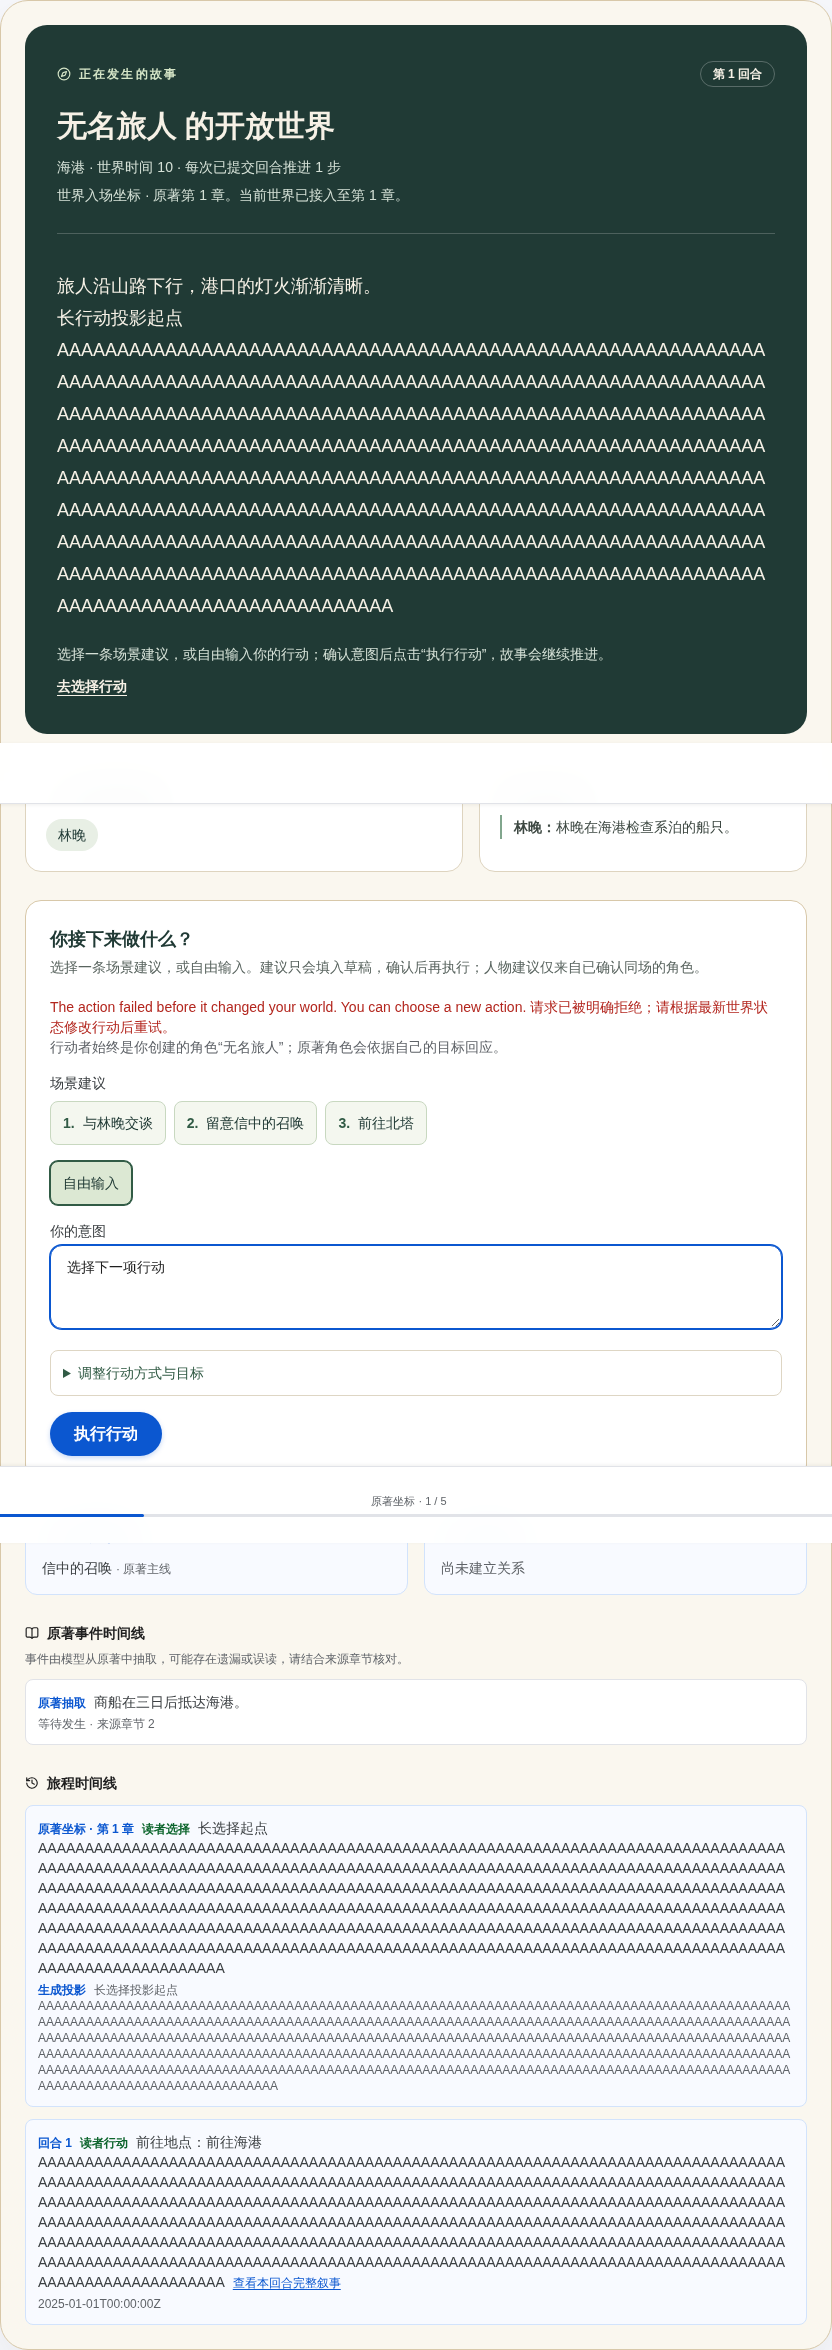
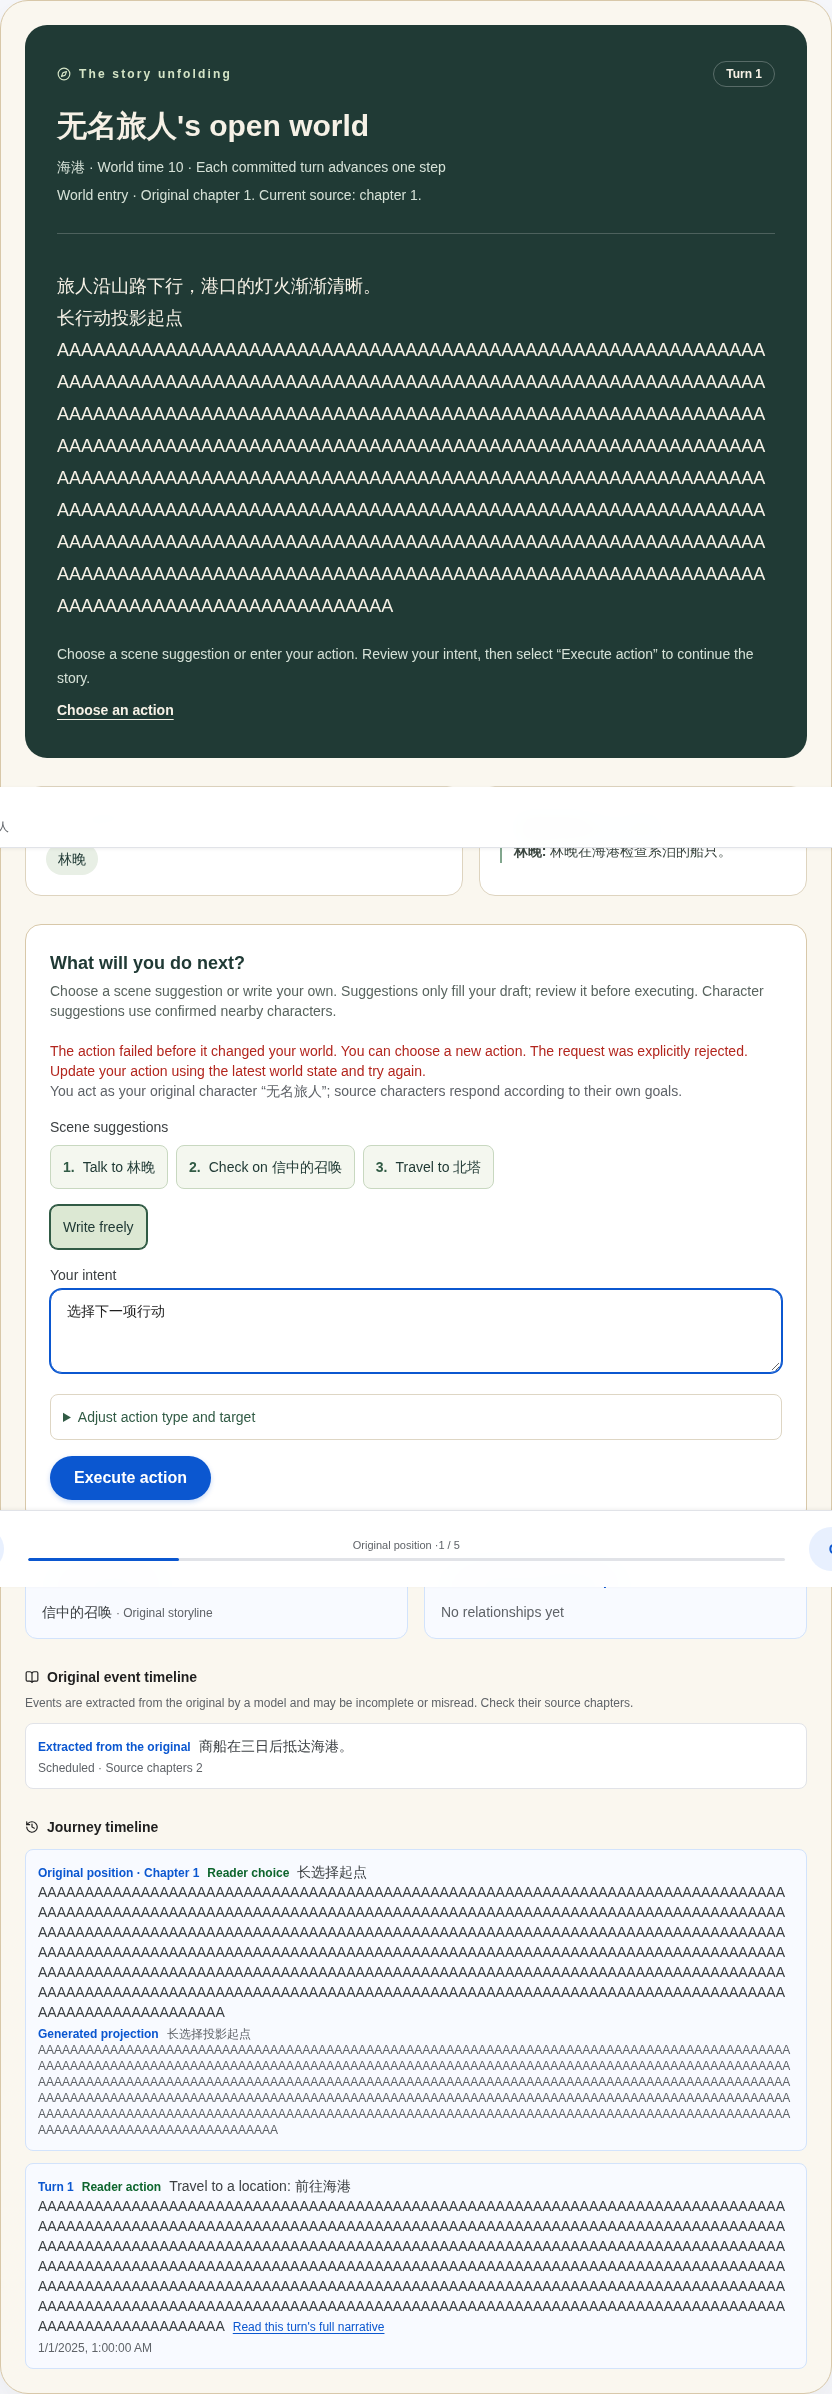
docs: record synthetic English and Chinese interface evidence

Changed region(s): [[0.0312, 0.0311, 0.9688, 0.994], [0.4062, 0.6213, 0.625, 0.6834], [0.9062, 0.5591, 0.9375, 0.5902]]

diff --git a/README.md b/README.md
@@ -121,6 +121,8 @@ and require Internet access and a key.
 | Reader-confirmed series worlds | Group your shelf books around a shared setting and immutable source-book basic rules. Laya may suggest a match, but association requires your confirmation; manual selection remains available. This structural preview does not share player state or qualify matching quality. |
 | Model settings | Configure the platform provider after setup; signed-in readers may optionally use their own encrypted provider key. Key usage shows [current-price token estimates](./docs/LLM_PRICING.md) in the quoted currency and separate subscription quotes; these are not account bills. |
 
+[Preview the default English interface](./docs/evidence/ui-language-english.png).
+
 <p align="center">
   <img src="./docs/evidence/h4-chat-landscape.png" width="568" alt="NovelWorld's Chinese reading interface with a character chat panel and message composer in a narrow landscape viewport." />
 </p>

diff --git a/docs/evidence/README.md b/docs/evidence/README.md
@@ -10,3 +10,13 @@ The [failed-action confirmation screenshot](./failed-action-confirmation.png)
 uses a synthetic rejected generation to show automatic status confirmation and
 unlocking without a second submission. It is browser presentation evidence,
 not live provider or deployment evidence.
+
+## Interface language
+
+The [English interface](./ui-language-english.png) shows the default locale and
+accessible language selector while preserving Chinese story samples. The
+[English](./failed-action-confirmation.png) and
+[Simplified Chinese](./failed-action-confirmation-zh-CN.png) failed-action views
+show the same automatic confirmation flow in both locales. These screenshots
+use synthetic browser fixtures, including deliberate long-text wrapping; they
+are presentation evidence, not live-provider or accessibility qualification.
